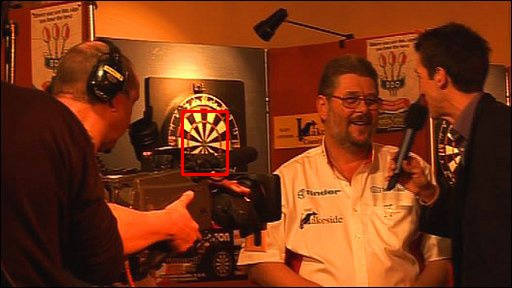
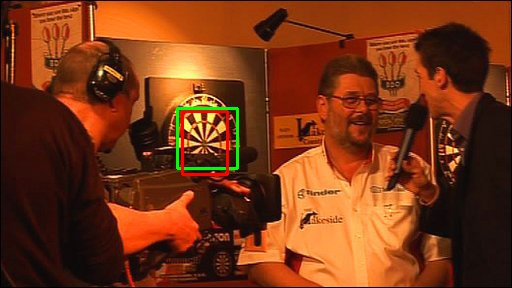
should be finished

Changed region(s): [[0.3438, 0.3438, 0.4688, 0.5938]]

diff --git a/Dartboard-Dectector.py b/Dartboard-Dectector.py
@@ -160,10 +160,66 @@ def hough_ellipse(grad_direction, thresholded_grad_mag, shape, T, radii_range):
         averages.append(average)
     return averages
 
+def AngleBetweenPoints(v0, v1, v2):
+    return (180 / math.pi) * np.arccos(np.dot(v1 - v0, v1 - v2) / (np.linalg.norm(v1 - v0) * np.linalg.norm(v1 - v2)))
+
+def TriangleHas18DegreeAngle(triangle, tolerance=10):
+    angles = []
+    angles.append(AngleBetweenPoints(triangle[0], triangle[1], triangle[2]))
+    angles.append(AngleBetweenPoints(triangle[1], triangle[2], triangle[0]))
+    angles.append(AngleBetweenPoints(triangle[2], triangle[0], triangle[1]))
+    for a in angles:
+        if (a < 18 + tolerance or a > 18 - tolerance):
+            return True
+    return False
+
+def DetectDartboardsFromTriangles(frame):
+    triangles = ContourPolygons(frame, 150)
+    
+    # Dartboards have 20 triangular segments, 360 / 20 = 18
+    # Get a list of triangles that have an angle of around 18 degrees
+    triangles = [np.array(t) for t in triangles if TriangleHas18DegreeAngle(np.array(t))]
+    centres = np.array([(t[0] + t[1] + t[2]) / 3 for t in triangles])
+
+    cluster_radius = 30
+    clusters = []
+    while (len(centres) > 0):
+        average = list(centres[0])
+        average.append(0)
+        removed = [0]
+        for i in range(1, len(centres)):
+            centre = np.array(centres[i])
+            av = np.array(average[:2])
+            d2 = np.dot(centre - av, centre - av)
+            if (d2 < cluster_radius ** 2):
+                new_average = (av * average[2] + centre) / (average[2] + 1)
+                average = [new_average[0], new_average[1], average[2] + 1]
+                removed.append(i)
+        centres = np.delete(centres, removed, axis=0)
+        clusters.append(average)
+    
+    clusters = [c for c in clusters if c[2] >= 3]
+    print(len(clusters))
+    return [[int(c[0] - cluster_radius), int(c[1] - cluster_radius), 2 * cluster_radius, 2 * cluster_radius] for c in clusters]
+
+def ContourPolygons(frame, T):
+    frame_gray = cv2.cvtColor(frame, cv2.COLOR_BGR2GRAY)
+    _, thresholded = cv2.threshold(frame_gray, T, 255, cv2.THRESH_BINARY)
+    _, contours, _ = cv2.findContours(thresholded, cv2.RETR_TREE, cv2.CHAIN_APPROX_SIMPLE)
+    tris = []
+    contour_output = np.copy(frame)
+    for contour in contours:
+        if (cv2.contourArea(contour) > 10):
+            poly = cv2.approxPolyDP(contour, 0.05 * cv2.arcLength(contour, True), True)
+            if (len(poly) == 3):
+                cv2.drawContours(contour_output, [poly], 0, (0, 0, 255), 2)
+                tris.append([poly[0][0], poly[1][0], poly[2][0]])
+    cv2.imwrite("countour_test.jpg", contour_output)
+    return tris
+
 # TODO: Generalise this for ellipses
 def LargeClusterCircles(circles, cluster_radius):
     clusters = []
-    print(circles)
     while(len(circles) > 0):
         average = list(circles[0])
         average.append(0)
@@ -305,15 +361,35 @@ def ViolaJonesDetector(model, frame, truths, imageN):
     PrettyPrintScore(scores, imageN)
     return scores
 
-def combined_dectectors(image, model, truths, imageN, overlay=False, ellipse=False):
+def CollateBoundingBoxes(bboxs):
+    output = []
+    bboxs = np.array([b for b in bboxs if b[2] * b[3] > 20])
+    while (len(bboxs) > 0):
+        current = list(bboxs[0])
+        current.append(0)
+        removed = [0]
+        for i in range(1, len(bboxs)):
+            current_bbox = np.array(current[:4])
+            comparing_bbox = bboxs[i]
+            iou = IoUScore(current_bbox, comparing_bbox)
+            if (iou > 0.05):
+                new_bbox = ((comparing_bbox * current[4]) + comparing_bbox) / (current[4] + 1)
+                current = [int(new_bbox[0]), int(new_bbox[1]), int(new_bbox[2]), int(new_bbox[3]), current[4] + 1]
+                removed.append(i)
+        bboxs = np.delete(bboxs, removed, axis=0)
+        output.append(current[:4])
+    return output
+
+def combined_dectectors(image, model, truths, imageN, overlay=False):
     frame_gray = cv2.cvtColor(image, cv2.COLOR_BGR2GRAY)
     frame_gray = cv2.equalizeHist(frame_gray)
     magnitude, direction = sobel_information(frame_gray)
     circles = hough_circles(direction, thresholded_pixels(magnitude, 200), frame_gray.shape, 11)
     ellipses = []
 
-    if (ellipse):
+    if (len([c for c in circles if c[3] > 40]) == 0 and len(circles) > 0):
         min_radius = 30 # Remember to add min radius to each of the radii afterwards
+        print("Ellipse Detecting")
         ellipses = hough_ellipse(direction, thresholded_pixels(magnitude, 200), frame_gray.shape, 11, (min_radius, 100))
 
     if (overlay):
@@ -359,10 +435,12 @@ def combined_dectectors(image, model, truths, imageN, overlay=False, ellipse=Fal
             bbox = [x - r_a, y - r_b, 2 * r_a, 2 * r_b]
             detections.append(bbox)
 
+    detections.extend(DetectDartboardsFromTriangles(image))
+    detections = CollateBoundingBoxes(np.array(detections))
     for d in detections:
         start_point = (d[0], d[1])
         end_point = (d[0] + d[2], d[1] + d[3])
-        colour = (255, 0, 0)
+        colour = (0, 255, 0)
         thickness = 2
         image = cv2.rectangle(image, start_point, end_point, colour, thickness)
     
@@ -397,13 +475,24 @@ def ClassifyMultiplePhotos(name_range, folder='Dartboard/', prefix='dart', ext='
         frame = cv2.imread(filename, 1)
 
         if (circles):
-            scores.append(combined_dectectors(frame, model, ground_truths, i, ellipse=(True if i == 50 else False)))
+            scores.append(combined_dectectors(frame, model, ground_truths, i))
         else:
             scores.append(ViolaJonesDetector(model, frame, ground_truths, i))
         cv2.imwrite(f"Detected/{prefix}{i}.{ext}", frame)
     PrettyPrintScores(scores)
-        
-def ClassifySinglePhoto(filepath, circles=True, overlay=False, ellipse=False):
+
+def TestContour(filepath):
+    frame = cv2.imread(filepath, 1)
+    dartboards = DetectDartboardsFromTriangles(frame)
+    for d in dartboards:
+        start_point = (d[0], d[1])
+        end_point = (d[0] + d[2], d[1] + d[3])
+        colour = (0, 255, 0)
+        thickness = 2
+        frame = cv2.rectangle(frame, start_point, end_point, colour, thickness)
+    cv2.imwrite("countour_test.jpg", frame)
+
+def ClassifySinglePhoto(filepath, circles=True, overlay=False):
     if (not os.path.isfile(filepath)) or (not os.path.isfile(cascade_name)):
         print('No such file')
         sys.exit(1)
@@ -421,13 +510,14 @@ def ClassifySinglePhoto(filepath, circles=True, overlay=False, ellipse=False):
     imageNo = int((filepath.split('dart')[1]).split('.jpg')[0])
 
     if (circles):
-        combined_dectectors(frame, model, ground_truths, imageNo, overlay, ellipse)
+        combined_dectectors(frame, model, ground_truths, imageNo, overlay)
     else:
         ViolaJonesDetector(model, frame, ground_truths, imageNo)
     cv2.imwrite(f"Detected/{filename}", frame)
 
 imageName = args.name
 if (args.name != ""):
-    ClassifySinglePhoto(imageName, True, True, True)
+    #TestContour(imageName)
+    ClassifySinglePhoto(imageName, True, True)
 else:
     ClassifyMultiplePhotos((0, 15), circles=True)
